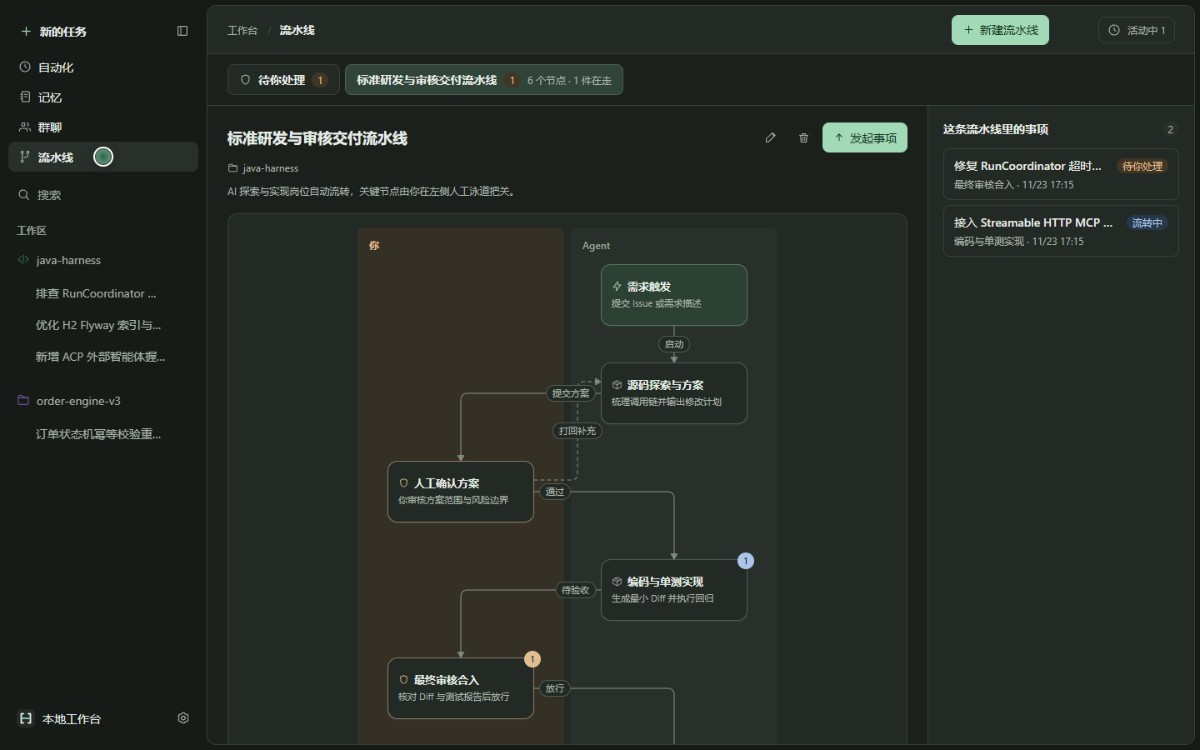
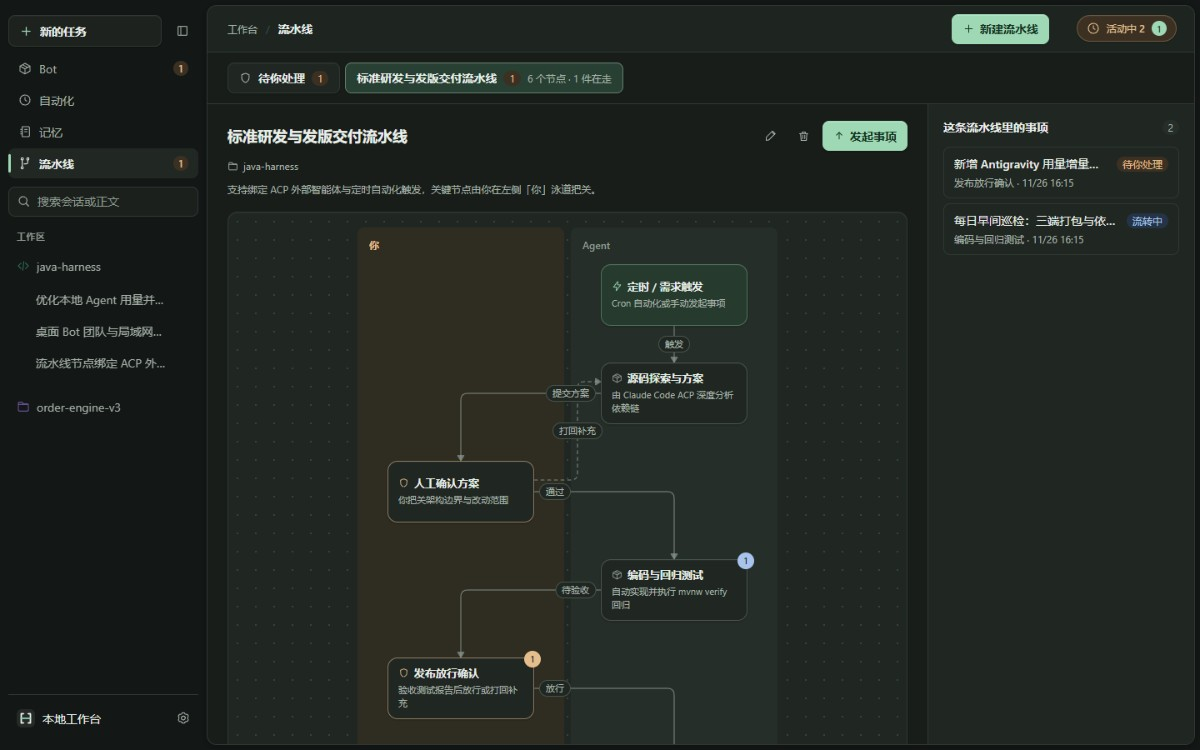
docs: 更新新版演示视频、架构图、界面预览及最新特性说明

diff --git a/README.md b/README.md
@@ -6,8 +6,8 @@
 
 **用 Java 21 构建的本地优先 AI 编程工作台**
 
-连接你选择的模型与项目工作区，将多角色像素协作工坊、泳道流水线、长期记忆图谱、<br>
-定时自动化与 MCP / ACP 扩展生态汇聚于一处，所有数据留在你本机。
+连接你选择的模型与项目工作区，将桌面 Bot 团队与互动小程序、全本机多 Agent 用量统计、<br>
+人机泳道流水线、长期记忆图谱、局域网手机伴侣与 MCP / ACP 扩展生态汇聚于一处，所有数据留在你本机。
 
 <p>
   <a href="https://github.com/song782360037/java-harness/actions/workflows/build.yml"><img src="https://github.com/song782360037/java-harness/actions/workflows/build.yml/badge.svg" alt="Build" /></a>
@@ -37,37 +37,46 @@
 
 ## 演示视频
 
-https://github.com/user-attachments/assets/a317988a-7835-4c3c-b035-16fcd6ec3453
+https://github.com/user-attachments/assets/3023f521-b291-4e97-95d6-a081818ddae6
+
+> 36 秒全实机演示：桌面 Bot 团队与 3D 翻面工位 · 沙箱互动小程序 · 6 大本机 Agent 用量统计与 9 套明暗主题 · 长期记忆知识图谱 · 人机泳道流水线（ACP 外部智能体 + 定时触发）· 局域网移动伴侣（`:4317` 扫码配对）与纯 Java 21 架构。
 
 ## 核心亮点
 
 Java Harness 是一个运行在本机的开源 AI 编程工作台，提供 **Windows / macOS / Linux 跨平台桌面客户端**（内置精简 JRE，无需预装 JDK），也可作为单个可运行 JAR 在任意 JDK 21 环境中启动。
 
-- **多模型自由切换**：接入任意兼容 OpenAI Chat Completions 接口的服务或本地模型网关，在对话中随时热切换模型与思考强度。
-- **像素协作工坊与多智能体**：支持并行子智能体（`explore` / `general`）在独立上下文中完成探索与实现；也可建立多角色 AI 群聊，在可视化像素协作办公室中由隐藏主持人拆解依赖任务、互相 `@` 接力推进。
-- **人机泳道流水线与定时自动化**：按需求生成固定研发流水线，AI 岗位自动流转、关键节点在「你」泳道人工确认与打回闭环；支持按每天 / 工作日 / 每周 / 每小时 / Cron 定时自动新建会话执行巡检。
-- **可追溯长期记忆图谱**：从历史对话中自动沉淀架构约定、工程偏好与排障经验，以主题知识图谱呈现，支持跨会话召回、来源追溯与人工纠偏。
-- **开放扩展生态**：统一管理插件包、Markdown 技能、MCP 连接器（`stdio` 与 Streamable HTTP）以及外部 ACP 智能体（`/claude`、`/codex`）。
-- **纯 Java 21 内核 · 本机优先**：`harness-core` 与 `harness-spi` 零框架依赖；服务仅监听 `127.0.0.1`，会话、记忆与加密凭据保存在本机 H2 数据库，文件修改与命令执行均可控可回溯。
+- **桌面 Bot 团队、互动小程序与手机伴侣**：组建多角色常驻数字员工团队（30 款原创矢量角色图库、3D 翻面工牌与明暗自适应工位、灵动岛、聊天/后台任务分离调度、跨 Bot `@` 静默委派、SOP 做法与例行定时）；支持让 Bot 现场生成沙箱单文件 HTML 互动小程序（收起支持 5 分钟热保活）；按需开启独立端口 `4317` 局域网手机伴侣，同一 Wi-Fi 下扫码输入 4 位配对码即可在手机端指挥 Bot 与打开小程序。
+- **全本机多 Agent 用量全景与现代工作台**：自动聚合本机 **Java Harness、Claude Code、Codex、Antigravity、WorkBuddy 与 Qoder** 会话日志，提供多源堆叠趋势、365 天贡献热力图、缓存命中率与磁盘增量缓存预热；原生内置 **9 套精选明暗主题**（含纯白极简、翡翠、暖纸、晴空、落樱、午夜星蓝、暖棕咖啡、星云暗紫），配备工作区文件树与代码预览右侧栏、`Ctrl/Cmd+K` 命令面板及跨会话全文检索。
+- **人机泳道流水线与定时自动化**：按需求生成固定研发流水线，AI 岗位支持绑定 `/claude`、`/codex` 等 ACP 外部智能体自动流转，关键节点在「你」泳道人工把关与打回闭环；定时自动化支持每天 / 工作日 / 每周 / 每小时 / Cron 自动新建会话或防重入触发流水线。
+- **可追溯长期记忆图谱**：从历史对话中自动沉淀架构约定、工程偏好与排障经验，以主题聚类知识图谱呈现，支持显式关系连线、跨会话召回、原文来源追溯与人工纠偏。
+- **多模型热切与开放扩展生态**：接入任意兼容 OpenAI Chat Completions 接口的服务或本地模型网关（支持瞬态错误自动重试与思考强度调节）；统一管理插件包、Markdown 技能、MCP 连接器（`stdio` 与 Streamable HTTP）以及外部 ACP 智能体（`/claude`、`/codex`）。
+- **纯 Java 21 内核 · 本机优先**：`harness-core` 与 `harness-spi` 零框架依赖；主服务仅监听 `127.0.0.1`，会话、记忆与加密凭据保存在本机 H2 数据库，支持并行只读/实现子智能体与完整运行快照留痕。
 
 ## 界面预览
 
 <table>
   <tr>
-    <td align="center" width="33.3%">
-      <img src="docs/assets/preview-studio.jpg" alt="像素协作工坊" />
+    <td align="center" width="50%">
+      <img src="docs/assets/preview-bots.jpg" alt="桌面 Bot 团队工作台与沙箱互动小程序" />
       <br />
-      <sub><strong>像素协作工坊</strong> · 多角色 AI 团队实时协同</sub>
+      <sub><strong>Bot 团队与互动小程序</strong> · 3D 翻面工位、跨 Bot 委派与沙箱 HTML 小程序</sub>
     </td>
-    <td align="center" width="33.3%">
+    <td align="center" width="50%">
+      <img src="docs/assets/preview-usage.jpg" alt="全本机 6 大 Agent 用量全景统计" />
+      <br />
+      <sub><strong>全本机多 Agent 用量看板</strong> · 6 大本地 Agent 聚合趋势与 365 天热力图</sub>
+    </td>
+  </tr>
+  <tr>
+    <td align="center" width="50%">
       <img src="docs/assets/preview-flows.jpg" alt="人机泳道流水线" />
       <br />
-      <sub><strong>固定泳道流水线</strong> · AI 自动流转与关键节点把关</sub>
+      <sub><strong>固定泳道流水线</strong> · AI / ACP 岗位自动流转与人工关键节点把关</sub>
     </td>
-    <td align="center" width="33.3%">
+    <td align="center" width="50%">
       <img src="docs/assets/preview-memory.jpg" alt="长期记忆主题图谱" />
       <br />
-      <sub><strong>长期记忆图谱</strong> · 主题聚类、显式关联与来源追溯</sub>
+      <sub><strong>长期记忆图谱</strong> · 主题聚类、显式关联与原文来源追溯</sub>
     </td>
   </tr>
 </table>
@@ -76,18 +85,16 @@ Java Harness 是一个运行在本机的开源 AI 编程工作台，提供 **Win
 
 | 能力 | 说明 |
 | --- | --- |
-| **多模型对话** | 管理多个模型提供商，在聊天中切换模型与思考强度；支持流式输出、Markdown、代码块与表格。 |
-| **项目工作区** | 为项目配置名称、图标与颜色，关联一个或多个本地目录，在多个会话间复用上下文。 |
-| **代码探索** | 浏览目录、读取文件、全文搜索、查看 Git 状态与差异，基于真实源码分析与定位问题。 |
-| **子智能体** | 将相互独立的子任务并行委派给只读探索（`explore`）或实现（`general`）子智能体，独立上下文完成后仅带回精炼结论。 |
-| **群聊与像素工坊** | 内置项目经理、设计、前后端、测试、运维等角色模板，支持讨论模式与任务编排模式，可视化追踪每位成员状态。 |
-| **固定流水线** | 按需求生成可复用的岗位流转图，串联触发器、AI 岗位与人工把关节点，支持打回补充闭环。 |
-| **定时自动化** | 配置提示词、工作区、模型与频率（每天 / 工作日 / 每周 / 每小时 / Cron / 手动），到点自动创建会话运行。 |
-| **长期记忆图谱** | 开启后自动从对话提炼记忆，在主题图谱中查看、纠正、建立关系并追溯原始出处。 |
-| **提示词优化** | 结合最近对话、文件引用、附件与相关记忆润色输入草稿，回填后由你决定是否发送。 |
-| **修改审核与审批** | 文件修改以 Diff 呈现并支持撤销；提供手动 / 智能 / 完全访问三档审批与 deny / ask / allow 命令规则。 |
-| **任务中心与记录** | 跨会话查看运行中与待处理任务，桌面端支持系统通知与托盘常驻；完整记录每次调用的输入快照与工具结果。 |
-| **明暗主题与偏好** | 原生支持明亮 / 黑暗 / 跟随系统主题，可调字号、发送快捷键与消息跟随策略。 |
+| **Bot 团队工作台** | 聊天与后台任务双轨调度、跨 Bot `@` 静默委派、双区文件（资料库 + 绑定工作区）、SOP 做法与全局技能导入、例行定时、30 款原创 SVG 角色、3D 翻面工牌工位与灵动岛。 |
+| **沙箱互动小程序** | Bot 可在后台生成单文件 HTML 互动看板或小工具，运行于沙箱 `iframe` 并通过 `window.harnessBot` 读写数据与反向通知 Bot，最小化后 5 分钟热保活。 |
+| **局域网手机伴侣** | 默认关闭、按需启停的独立端口（`4317`）服务，支持同局域网扫码 + 4 位配对码与 HttpOnly Cookie 授权，在手机上查看 Bot 团队、收发消息与打开小程序。 |
+| **多 Agent 用量统计** | 并行流式解析并增量缓存 Java Harness、Claude Code、Codex、Antigravity、WorkBuddy 与 Qoder 本机日志，展示堆叠趋势、缓存命中率、模型明细与近一年热力图。 |
+| **固定泳道流水线** | 按需求生成可复用的岗位流转图，串联触发器、内置模型 / ACP 外部智能体岗位与「你」人工把关节点，支持打回补充闭环并接入任务中心与桌面通知。 |
+| **定时自动化** | 配置提示词、工作区、模型与频率（每天 / 工作日 / 每周 / 每小时 / Cron / 手动），到点自动新建会话或防重入触发固定流水线。 |
+| **长期记忆图谱** | 开启后自动从对话提炼项目记忆，在主题图谱中查看聚类、建立显式关系、人工纠偏并追溯原始会话出处。 |
+| **工作台与代码浏览** | 内置右侧工作区文件树与语法高亮代码预览、`Ctrl/Cmd+K` 命令面板、跨会话全文检索、Markdown 导出、多模型热切与并行探索/实现子智能体（`explore` / `general`）。 |
+| **9 套精选明暗主题** | 提供 5 套浅色（纯白极简、翡翠浅色、暖纸米白、晴空海蓝、落樱浅粉）与 4 套深色（翡翠深色、午夜星蓝、暖棕咖啡、星云暗紫），即切即存。 |
+| **提示词优化与可控边界** | 结合最近对话、文件引用与相关记忆润色草稿；提供手动 / 智能 / 完全访问三档执行策略、命令规则及完整运行快照记录。 |
 
 ## 快速开始
 
@@ -132,8 +139,8 @@ java -jar harness-server/target/harness-server-0.3.2.jar
 ### 首次配置
 
 1. 打开 **设置 → 模型与提供商**，添加模型提供商（API 地址与 Key）并配置模型。
-2. 点击 **新的任务**，在输入框底部选择项目工作区、模型与思考强度。
-3. 开始探索项目、协作开发，或在左侧栏进入 **群聊**、**流水线**、**记忆** 与 **自动化**。
+2. 点击 **新的任务**，在输入框底部选择项目工作区、模型与思考强度；或按 `Ctrl/Cmd+K` 快速打开命令面板。
+3. 在左侧栏进入 **Bot**、**流水线**、**记忆** 与 **自动化**，或在 **设置** 中切换 **外观主题**、查看 **使用统计** 与开启 **局域网设备** 手机伴侣。
 
 开发模式（前后端分别热启动）与端口配置说明见 [使用与开发参考](docs/usage-and-development.md)。
 
@@ -144,9 +151,9 @@ java -jar harness-server/target/harness-server-0.3.2.jar
 | 扩展类型 | 用途 | 接入方式 |
 | --- | --- | --- |
 | **插件（Plugins）** | 将技能、命令与工具打包为可复用的团队工作流（如代码审查、架构理解、发布检查）。 | 从本地目录或 ZIP 压缩包安装。 |
-| **技能（Skills）** | 为特定工程任务注入方法论与规范（如根因分析、测试用例设计、技术文档）。 | 直接编写 Markdown 技能正文。 |
+| **技能（Skills）** | 为特定工程任务注入方法论与规范（如根因分析、测试用例设计、技术文档），并支持一键导入 Bot 做法。 | 直接编写 Markdown 技能正文。 |
 | **连接器（MCP）** | 将外部 MCP 服务提供的工具接入对话，支持 `stdio` 与 Streamable HTTP。 | 配置本地命令行程序或远端 MCP 服务地址。 |
-| **外部智能体（ACP）** | 在对话中直接把任务委派给 Codex、Claude Code 或其他 ACP v1 智能体。 | 配置本地可信的 ACP v1 stdio 适配器。 |
+| **外部智能体（ACP）** | 在对话、流水线岗位或 Bot 中委派任务给 Codex、Claude Code 或其他 ACP v1 智能体。 | 配置本地可信的 ACP v1 stdio 适配器。 |
 
 在聊天输入框键入 `/` 可快速唤起插件命令与外部智能体。示例插件位于 [`examples/plugins`](examples/plugins)，详细说明见 [扩展使用与开发](docs/plugins.md) 与 [外部智能体（ACP）](docs/external-agents.md)。
 
@@ -155,7 +162,7 @@ java -jar harness-server/target/harness-server-0.3.2.jar
 
 1. 安装对应的 ACP 适配器：[Codex ACP](https://github.com/agentclientprotocol/codex-acp) 或 [Claude Agent ACP](https://github.com/agentclientprotocol/claude-agent-acp)，并按上游文档完成本地认证。Java Harness 不安装适配器，也不转交自身模型 API Key。
 2. 打开 **设置 → 扩展 → 外部智能体**，添加对应预设（可保留命令名或指定绝对路径），点击 **测试连接** 验证 ACP 握手后启用保存。
-3. 回到对话并选择工作区，在消息开头输入 `/claude` 或 `/codex` 加任务描述（例如 `/claude 梳理项目模块之间的依赖`）。该消息直连外部适配器处理，下一条普通消息仍由主模型继续；适配器支持续接时会自动复用同一外部上下文。
+3. 回到对话并选择工作区，在消息开头输入 `/claude` 或 `/codex` 加任务描述（例如 `/claude 梳理项目模块之间的依赖`），也可在 **流水线** 岗位或 **Bot** 配置中直接绑定外部智能体。
 
 > 外部任务在工作区第一个目录运行，不转发 Java Harness 的对话历史、记忆、附件或 MCP 配置，仍以当前系统账户权限运行（Codex 默认 `read-only`，Claude Code 默认 `plan`）。外部程序直接改动的文件无法在 Java Harness 内撤销。
 
@@ -171,21 +178,22 @@ java -jar harness-server/target/harness-server-0.3.2.jar
 java-harness/
 ├── harness-spi/        Session / Run / Event 与引擎、模型、存储契约（纯 Java 21）
 ├── harness-core/       执行调度、上下文组装与预算、状态仲裁、取消与截止时间（纯 Java 21）
-├── harness-adapters/   OpenAI 兼容 HTTP 适配、工作区工具、文件审核与 JDBC 存储
-├── harness-server/     Spring Boot 装配、REST / SSE 接口与 Flyway 数据库迁移
+├── harness-adapters/   OpenAI 兼容 HTTP 适配、工作区工具、多 Agent 用量解析与 JDBC 存储
+├── harness-server/     Spring Boot 装配、REST / SSE 接口、Bot / 局域网伴侣与 Flyway 迁移
 ├── harness-web/        前端工作台（Vue 3 + TypeScript + Vite）
-├── harness-desktop/    Electron 桌面壳与 Windows 安装包构建
+├── harness-desktop/    Electron 桌面壳与 Windows / macOS / Linux 跨平台安装包构建
 ├── examples/           示例插件
 └── docs/               架构设计、运行约定与开发文档
 ```
 
-`harness-core` 与 `harness-spi` 保持**纯 Java 依赖**，不引入 Spring、数据库或 HTTP 客户端；适配层基于 JDK HttpClient、Jackson 与 Spring JDBC 实现；服务层负责 Spring Boot 装配与数据库迁移。
+`harness-core` 与 `harness-spi` 保持**纯 Java 依赖**，不引入 Spring、数据库或 HTTP 客户端；适配层基于 JDK HttpClient、Jackson 与 Spring JDBC 实现；服务层负责 Spring Boot 装配、Bot 与局域网移动伴侣服务及数据库迁移。
 
 ## 安全与使用边界
 
-- 面向**本机单用户**与**可信项目目录**，服务默认仅监听本机回环地址 `127.0.0.1`。
+- 面向**本机单用户**与**可信项目目录**，主服务默认仅监听本机回环地址 `127.0.0.1`。
+- 局域网手机伴侣默认关闭，开启后运行在独立端口（默认 `4317`），采用 4 位配对码与 HttpOnly Cookie 授权，本地仅存令牌 SHA-256 哈希，随时可撤销设备。
 - 模型 API Key 与连接器凭据均在本地加密保存，不会回显。
-- 文件修改与命令审批规则属于尽力而为的工程防护，**不是操作系统级安全沙箱**；执行的命令仍具备当前系统账户权限，请勿在不信任的仓库中开启完全访问模式。
+- 文件修改与命令规则属于尽力而为的工程防护，**不是操作系统级安全沙箱**；执行的命令仍具备当前系统账户权限，请勿在不信任的仓库中开启完全访问模式。
 - 服务重启后可完整回看历史记录与调用快照，但不会自动续跑中断任务或重放外部调用。
 
 ## 文档导航
@@ -195,11 +203,10 @@ java-harness/
 | [使用与开发参考](docs/usage-and-development.md) | 环境准备、源码构建、热启动开发、模型配置与工作区操作 |
 | [扩展使用与开发](docs/plugins.md) | 插件、技能与 MCP 连接器的安装、配置及开发示例 |
 | [外部智能体（ACP）](docs/external-agents.md) | 通过 ACP v1 接入 Codex、Claude Code 与自定义外部智能体、权限模式及续接规则 |
-| [群聊与协作工坊](docs/group-chat.md) | 多角色成员、隐藏主持人调度、`@` 接力与终止条件 |
 | [固定流水线](docs/flows.md) | 流程生成、岗位流转、人工审核节点与接口说明 |
 | [长期记忆](docs/memory.md) | 自动提炼、历史回填、主题图谱与召回规则 |
 | [提示词优化](docs/prompt-optimization.md) | 草稿优化流程、上下文与记忆来源 |
-| [桌面客户端](docs/desktop.md) | Windows 安装包构建、发布、自动更新与数据目录 |
+| [桌面客户端](docs/desktop.md) | Windows / macOS / Linux 安装包构建、发布、自动更新与数据目录 |
 | [运行约定](docs/runtime.md) · [开发边界](docs/development.md) | 任务生命周期、审批模式、工程边界与编码约定 |
 | [功能验证记录](docs/verification.md) · [扩展验证记录](docs/plugin-validation.md) | 各模块功能验证过程与结果 |
 
